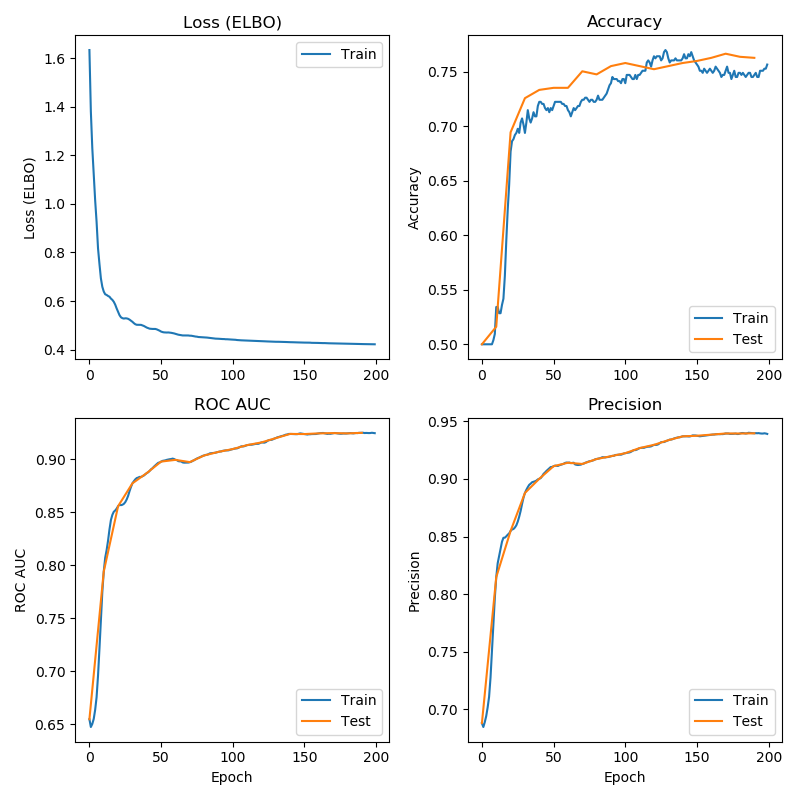
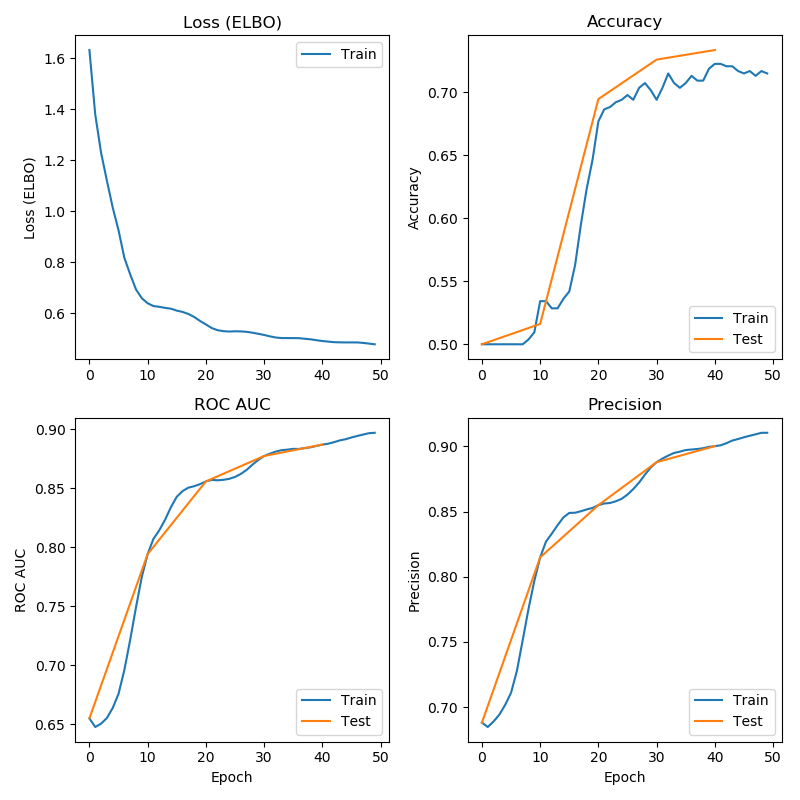
Add kernels directory

diff --git a/kernels/graph_kernels.py b/kernels/graph_kernels.py
@@ -1,0 +1,139 @@
+import networkx as nx
+import numpy as np
+from collections import defaultdict
+import copy
+from scipy.sparse import lil_matrix
+
+def sp_kernel(g1, g2=None):
+	if g2 != None:
+		graphs = []
+		for g in g1:
+			graphs.append(g)
+		for g in g2:
+			graphs.append(g)
+	else:
+		graphs = g1
+
+	sp_lengths = []
+
+	for graph in graphs:
+		sp_lengths.append(nx.shortest_path_length(graph))
+
+	N = len(graphs)
+	all_paths = {}
+	sp_counts = {}
+	for i in range(N):
+		sp_counts[i] = {}
+		nodes = graphs[i].nodes()
+		for v1 in nodes:
+		    for v2 in nodes:
+		        if v2 in sp_lengths[i][v1]:
+			       	label = sp_lengths[i][v1][v2]
+			        if label in sp_counts[i]:
+			            sp_counts[i][label] += 1
+			        else:
+			            sp_counts[i][label] = 1
+
+			        if label not in all_paths:
+			            all_paths[label] = len(all_paths)
+
+	phi = lil_matrix((N,len(all_paths)))
+
+	for i in range(N):
+		for label in sp_counts[i]:
+		    phi[i,all_paths[label]] = sp_counts[i][label]
+
+	if g2 != None:
+		K = np.dot(phi[:len(g1),:],phi[len(g1):,:].T)
+	else:
+		K = np.dot(phi,phi.T)
+
+	K = np.asarray(K.todense())
+
+	return K
+
+
+def wl_kernel(g1, g2=None, h=6):
+	if g2 != None:
+		graphs = []
+		for g in g1:
+			graphs.append(g)
+		for g in g2:
+			graphs.append(g)
+	else:
+		graphs = g1
+
+	for G in graphs:
+		for node in G.nodes():
+			G.node[node]['label'] = G.degree(node)
+
+	labels = {}
+	label_lookup = {}
+	label_counter = 0
+
+	N = len(graphs)
+
+	orig_graph_map = {it: {i: defaultdict(lambda: 0) for i in range(N)} for it in range(-1, h)}
+
+	# initial labeling
+	ind = 0
+	for G in graphs:
+		labels[ind] = np.zeros(G.number_of_nodes(), dtype = np.int32)
+		node2index = {}
+		for node in G.nodes():
+		    node2index[node] = len(node2index)
+		    
+		for node in G.nodes():
+		    label = G.node[node]['label']
+		    if not (label in label_lookup):
+		        label_lookup[label] = len(label_lookup)
+
+		    labels[ind][node2index[node]] = label_lookup[label]
+		    orig_graph_map[-1][ind][label] = orig_graph_map[-1][ind].get(label, 0) + 1
+		
+		ind += 1
+		
+	compressed_labels = copy.deepcopy(labels)
+
+	# WL iterations
+	for it in range(h):
+		unique_labels_per_h = set()
+		label_lookup = {}
+		ind = 0
+		for G in graphs:
+		    node2index = {}
+		    for node in G.nodes():
+		        node2index[node] = len(node2index)
+		        
+		    for node in G.nodes():
+		        node_label = tuple([labels[ind][node2index[node]]])
+		        neighbors = G.neighbors(node)
+		        if len(neighbors) > 0:
+		            neighbors_label = tuple([labels[ind][node2index[neigh]] for neigh in neighbors])
+		            node_label =  str(node_label) + "-" + str(sorted(neighbors_label))
+		        if not (node_label in label_lookup):
+		            label_lookup[node_label] = len(label_lookup)
+		            
+		        compressed_labels[ind][node2index[node]] = label_lookup[node_label]
+		        orig_graph_map[it][ind][node_label] = orig_graph_map[it][ind].get(node_label, 0) + 1
+		        
+		    ind +=1
+		    
+		labels = copy.deepcopy(compressed_labels)
+
+	if g2 != None:
+		K = np.zeros((len(g1), len(g2)))
+		for it in range(-1, h):
+			for i in range(len(g1)):
+				for j in range(len(g2)):
+				    common_keys = set(orig_graph_map[it][i].keys()) & set(orig_graph_map[it][len(g1)+j].keys())
+				    K[i][j] += sum([orig_graph_map[it][i].get(k,0)*orig_graph_map[it][len(g1)+j].get(k,0) for k in common_keys])
+	else:
+		K = np.zeros((N, N))
+		for it in range(-1, h):
+			for i in range(N):
+				for j in range(N):
+				    common_keys = set(orig_graph_map[it][i].keys()) & set(orig_graph_map[it][j].keys())
+				    K[i][j] += sum([orig_graph_map[it][i].get(k,0)*orig_graph_map[it][j].get(k,0) for k in common_keys])
+				  	                            
+	return K

diff --git a/vgae/dist.py b/vgae/dist.py
@@ -18,8 +18,16 @@ class WeightedBernoulli(Bernoulli):
         logits, value = broadcast_all(self.logits, value)
         return -binary_cross_entropy_with_logits(logits, value, reduction='none', pos_weight=self.weight)
 
-class GumbelSoftmax(Distribution):
+class GumbelSoftmax(Bernoulli):
     def __init__(self, *args, **kwargs):
-        pass
-    def log_prob(self, value):
+        self.temperature = kwargs.pop('temperature', 1.)
+        super(GumbelSoftmax, self).__init__(*args, **kwargs)
+
+    def log_prob(self, logits):
+        if self._validate_args:
+            self._validate_sample(value)
+        logits, value = broadcast_all(self.logits, value)
+
+        
+
         pass 

diff --git a/vgae/models.py b/vgae/models.py
@@ -61,8 +61,7 @@ class InnerProductDecoder(nn.Module):
     """Decoder for using inner product for prediction."""
 
     def __init__(self, dropout):
-        super(InnerProductDecoder, self).__
-        init__()
+        super(InnerProductDecoder, self).__init__()
         self.dropout = dropout
         self.sigmoid = nn.Sigmoid()
         self.fudge = 1e-7

diff --git a/vgae/train.py b/vgae/train.py
@@ -106,7 +106,7 @@ if __name__ == '__main__':
     args = dotdict()    
     args.seed        = 1
     args.dropout     = 0.0
-    args.num_epochs  = 200
+    args.num_epochs  = 50
     args.dataset_str = 'cora'
     args.test_freq   = 10
     args.lr          = 0.01
